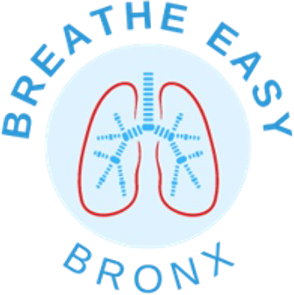
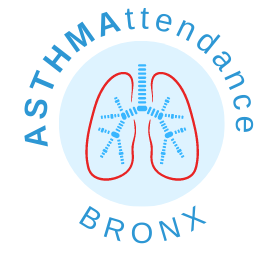
TASK: analytics

Changed region(s): [[0.0, 0.0, 1.0, 0.9961]]

diff --git a/index.html b/index.html
@@ -13,7 +13,7 @@
   <meta charset="utf-8">
   <meta content="width=device-width, initial-scale=1.0" name="viewport">
 
-  <title>Breathe Easy Bx</title>
+  <title>Asthmattendance</title>
   <meta content="" name="description">
   <meta content="" name="keywords">
 
@@ -152,12 +152,30 @@
     <!-- search section -->
     <section id="search-form">
       <div class="container mx-auto">
-        <h2 class="col-lg-12 content text-center" >What is your Bronx zip code (10451-10475)?</h2>
+        <h2 class="col-lg-12 content text-center mb-0" >What is your <span class="blue-text" >Bronx</span> zip code (10451-10475)?</h2>
+        <div class="container">
+          <div class="row  row-cols-2 justify-content-center mb-3">
+            <div class=" h-20 text-end col-3  col-sm-5 mb-1">
+              <input class="align-middle text-end form-check-input mt-0" type="checkbox" value="" aria-label="Checkbox for following text input">
+            </div>
+            <div class="col-9 h-5 col-sm-7 mb-1">
+              <p>Child with asthma in Public School</p>
+            </div>
+            <div class=" text-end col-3  col-sm-5 h-25">
+              <input class="align-middle form-check-input mt-0" type="checkbox" value="" aria-label="Checkbox for following text input">
+            </div>
+            <div class=" h-20 col-9 col-sm-7 h-25">
+              <p>AMAF on record</p>
+            </div>
+          </div>
+        </div>
+        <div>
+        </div>
         <div class="form">
           <form action="forms/contact.php" method="post" role="form" class="php-email-form requires-validation" novalidate>
             <div class="row justify-content-center">
-              <div class=" pe-4 ps-4 form-group col col-lg-2 center">
-                <input type="number" name="name" min="10451" max="10475" class="search-form-control form-control" id="name" placeholder="Zip code" required>
+              <div class=" pe-4 ps-4 form-group col-7 col-lg-2 center mb-2">
+                <input autocomplete="off" type="number" name="name" min="10451" max="10475" class="search-form-control form-control" id="name" placeholder="Zip code" required>
                 <div class="invalid-feedback">
                   Please provide a valid Bronx zip code (10451-10475).
                 </div>
@@ -252,7 +270,7 @@
 
             <ul>
               <li><i class="bi bi-check-circle"></i> Successful school asthma management involves individual case identification and provision of medications to students when needed.</li>
-              <li><i class="bi bi-check-circle"></i> New York City (NYC) schools require caregiver submission of a Medication Administration Form (MAF; a physician-completed order form that must be renewed every school year) to confirm asthma diagnoses and allow school nurses to administer medication for asthma exacerbations.</li>
+              <li><i class="bi bi-check-circle"></i> New York City (NYC) schools require caregiver submission of an Asthma Medication Administration Form (AMAF; a physician-completed order form that must be renewed every school year) to confirm asthma diagnoses and allow school nurses to administer medication for asthma exacerbations.</li>
               <li><i class="bi bi-check-circle"></i> Without an MAF, due to systems-based regulations, the nurse cannot administer medication, even if a student is having an asthma attack.</li>
             </ul>
             <a target="_blank" href="https://www.schools.nyc.gov/docs/default-source/default-document-library/asthma-medication-administration-form-2021-22"> Download Form here </a>

diff --git a/assets/css/style.css b/assets/css/style.css
@@ -32,10 +32,12 @@ p {
 }
 
 h1, h2, h3, h4, h5, h6 {
-  font-family: "Montserrat", sans-serif;
+  font-family: "Helvetica", sans-serif;
   font-weight: 400;
   margin: 0 0 20px 0;
   padding: 0;
+  word-spacing: 5px;
+  letter-spacing: 2px;
 }
 
 .search-zip:disabled {
@@ -379,7 +381,7 @@ h1, h2, h3, h4, h5, h6 {
 
 
 #search-form button[type=submit] {
-  background: #50d8af;
+  background: #49B364;
   border: 0;
   border-radius: 3px;
   padding: 10px 30px;
@@ -404,6 +406,22 @@ h1, h2, h3, h4, h5, h6 {
   margin-bottom: 1.6rem;
 }
 
+#search-form .search-zip:hover{
+  background:  #66A3D8;
+  animation: pulse 1s;
+  box-shadow: 0 0 0 0.8em transparent;
+}
+
+#search-form .blue-text{
+  color: #92b5d3;
+}
+
+#search-form .form-check-input:checked{
+  background-color: #49B364;
+  border-color: #E76051;
+  border-width: 1px;
+}
+
 #search-form .mock-data {
   font-size: 11px;
   color: rgb(133, 132, 132);
@@ -420,11 +438,19 @@ cursor: pointer;
 }
 
 #search-form h2{
-  font-size: 22px;
+  font-size: 23px;
   color: #fafafb;
   font-weight: 700;
   position: relative;
   padding-bottom: 20px;
+  font: Helvetica;
+}
+
+#search-form p {
+  font-family: Helvetica;
+  font-size: 20px;
+  color: azure;
+  margin-bottom: 0px;
 }
 
 
@@ -516,6 +542,8 @@ cursor: pointer;
 
 #amaf-form ul li {
   font-size: 18px;
+  font-family: Helvetica;
+  letter-spacing: 1px;
   color: #fafafb;
 }
 
@@ -578,7 +606,8 @@ cursor: pointer;
 
 #hero .hero-logo{
   margin: 25px;
-  width: 195px;
+  width: 295px;
+  filter: drop-shadow(0.4px 0.4px 0.4px rgb(222, 219, 219));
 }
 #hero .hero-content h2 {
   color: #0c2e8a;
@@ -596,8 +625,8 @@ cursor: pointer;
   }
 }
 #hero .hero-content .btn-get-started, #hero .hero-content .btn-projects {
-  font-family: "Raleway", sans-serif;
-  font-size: 15px;
+  font-family: "Helvetica", sans-serif;
+  font-size: 17px;
   font-weight: bold;
   letter-spacing: 1px;
   display: inline-block;
@@ -608,14 +637,17 @@ cursor: pointer;
   color: #fff;
 }
 #hero .hero-content .btn-get-started {
-  background: #0c2e8a;
+  /* background:  #0c2e8a; */
+  background-color: #EF8E2D;
   border: 2px solid #0c2e8a;
+  font: helvetica;
 }
 #hero .hero-content .btn-get-started:hover {
   /* background: rgb(6, 2, 11); */
   /* color: #0c2e8a; */
   animation: pulse 1s;
   box-shadow: 0 0 0 0.8em transparent;
+  background:#66A3D8;
   /* box-shadow: inset 0 0 0 2em ; */
 }
 
@@ -626,12 +658,14 @@ cursor: pointer;
 
 
 #hero .hero-content .btn-projects {
-  background: #50d8af;
+  /* background: #50d8af; */
+  background-color:#49B364 ;
   border: 2px solid #50d8af;
 }
 #hero .hero-content .btn-projects:hover {
   animation: pulse 1s;
   box-shadow: 0 0 0 0.8em transparent;
+  background: #66A3D8;
 }
 #hero .hero-slider {
   z-index: 8;
@@ -1240,6 +1274,11 @@ section {
 #contact .contact-info address, #contact .contact-info p {
   margin-bottom: 0;
   color: #000;
+}
+
+#contact p{
+  font-family: Helvetica;
+  letter-spacing: 1px;
 }
 #contact .contact-info h3 {
   font-size: 18px;
